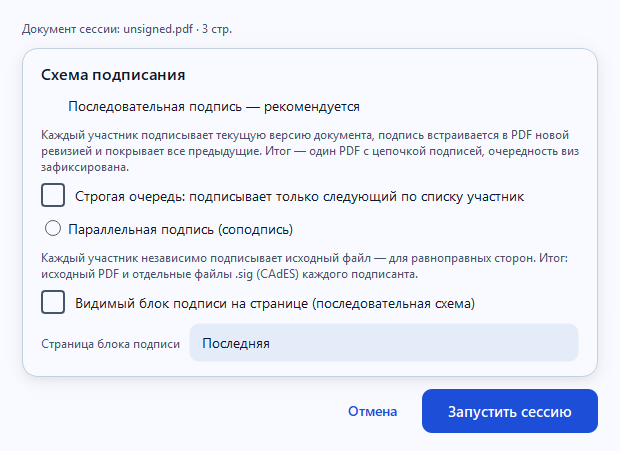
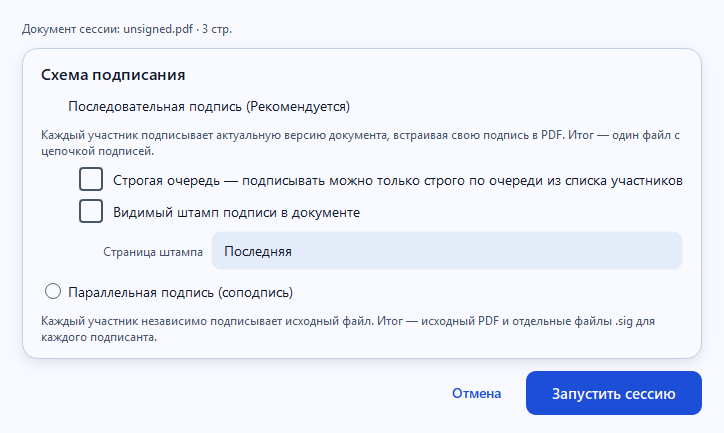
Параметры сетевой сессии: структура схем подписания по макету
- «Последовательная подпись (Рекомендуется)» + описание, вложенные
  «Строгая очередь — …» и «Видимый штамп подписи в документе»
- «Параллельная подпись (соподпись)» + описание из макета
- выбор страницы штампа показывается только при включённом штампе
- перерисован session-setup.png, блюр ПД переприменён
- заметки к релизу 1.1.0 актуализированы

Changed region(s): [[0.0306, 0.1501, 0.9806, 0.9607], [0.0306, 0.06, 0.95, 0.1201], [0.5823, 0.7206, 0.9194, 0.7506]]

diff --git a/pdfsign/network_ui.py b/pdfsign/network_ui.py
@@ -197,39 +197,32 @@ class HostSetupDialog(QDialog):
         card, card_layout = _card("Схема подписания")
         _shadow(card)
 
-        self._sequential = QRadioButton(
-            "Последовательная подпись — рекомендуется"
-        )
+        self._sequential = QRadioButton("Последовательная подпись (Рекомендуется)")
         self._sequential.setChecked(True)
         card_layout.addWidget(self._sequential)
         seq_hint = QLabel(
-            "Каждый участник подписывает текущую версию документа, подпись встраивается в PDF "
-            "новой ревизией и покрывает все предыдущие. Итог — один PDF с цепочкой подписей, "
-            "очередность виз зафиксирована."
+            "Каждый участник подписывает актуальную версию документа, встраивая "
+            "свою подпись в PDF. Итог — один файл с цепочкой подписей."
         )
         seq_hint.setObjectName("Caption")
         seq_hint.setWordWrap(True)
         card_layout.addWidget(seq_hint)
 
-        self._strict = QCheckBox("Строгая очередь: подписывает только следующий по списку участник")
-        card_layout.addWidget(self._strict)
-
-        self._parallel = QRadioButton("Параллельная подпись (соподпись)")
-        card_layout.addWidget(self._parallel)
-        par_hint = QLabel(
-            "Каждый участник независимо подписывает исходный файл — для равноправных сторон. "
-            "Итог: исходный PDF и отдельные файлы .sig (CAdES) каждого подписанта."
+        # sub-options nested under the sequential scheme
+        sub = QWidget()
+        sub_layout = QVBoxLayout(sub)
+        sub_layout.setContentsMargins(38, 0, 0, 0)
+        sub_layout.setSpacing(8)
+        self._strict = QCheckBox(
+            "Строгая очередь — подписывать можно только строго по очереди "
+            "из списка участников"
         )
-        par_hint.setObjectName("Caption")
-        par_hint.setWordWrap(True)
-        card_layout.addWidget(par_hint)
-
-        self._visible = QCheckBox("Видимый блок подписи на странице (последовательная схема)")
-        self._visible.setChecked(False)
-        card_layout.addWidget(self._visible)
-
+        sub_layout.addWidget(self._strict)
+        self._visible = QCheckBox("Видимый штамп подписи в документе")
+        sub_layout.addWidget(self._visible)
         page_row = QHBoxLayout()
-        page_caption = QLabel("Страница блока подписи")
+        page_row.setContentsMargins(24, 0, 0, 0)
+        page_caption = QLabel("Страница штампа")
         page_caption.setObjectName("Caption")
         self._page_combo = QComboBox()
         self._page_combo.addItem("Последняя", -1)
@@ -237,7 +230,18 @@ class HostSetupDialog(QDialog):
             self._page_combo.addItem(f"Страница {index + 1}", index)
         page_row.addWidget(page_caption)
         page_row.addWidget(self._page_combo, 1)
-        card_layout.addLayout(page_row)
+        sub_layout.addLayout(page_row)
+        card_layout.addWidget(sub)
+
+        self._parallel = QRadioButton("Параллельная подпись (соподпись)")
+        card_layout.addWidget(self._parallel)
+        par_hint = QLabel(
+            "Каждый участник независимо подписывает исходный файл. Итог — "
+            "исходный PDF и отдельные файлы .sig для каждого подписанта."
+        )
+        par_hint.setObjectName("Caption")
+        par_hint.setWordWrap(True)
+        card_layout.addWidget(par_hint)
 
         layout.addWidget(card)
 
@@ -255,12 +259,14 @@ class HostSetupDialog(QDialog):
 
         self._sequential.toggled.connect(self._toggle_scheme)
         self._parallel.toggled.connect(self._toggle_scheme)
+        self._visible.toggled.connect(self._toggle_scheme)
+        self._toggle_scheme()
 
     def _toggle_scheme(self) -> None:
         sequential = self._sequential.isChecked()
         self._strict.setEnabled(sequential)
         self._visible.setEnabled(sequential)
-        self._page_combo.setEnabled(sequential)
+        self._page_combo.setEnabled(sequential and self._visible.isChecked())
 
     def _start(self) -> None:
         self.config = network.SessionConfig(

diff --git a/packaging/release-notes-1.1.0.md b/packaging/release-notes-1.1.0.md
@@ -14,6 +14,7 @@ PDF Мультиподпись 1.1.0 — подпись PDF нескольким
 - Кнопка «Скопировать приглашение» — адрес, код и инструкция одним сообщением.
 - Загрузка PDF **кликом по рамке** переноса файла (не только перетаскиванием и кнопкой).
 - Диалог «О программе» без версии ОС.
+- Окно параметров сессии: схема подписания в виде структуры «Последовательная подпись (Рекомендуется)» с вложенными «Строгая очередь» и «Видимый штамп подписи в документе», затем «Параллельная подпись (соподпись)».
 
 Подпись остаётся корректной по `/ByteRange`: в последовательной схеме участник
 получает от организатора точные байты для подписи (двухфазный протокол
@@ -45,9 +46,9 @@ prepare/commit), закрытый ключ не покидает его комп
 ## Контрольные суммы
 
 ```
-SHA256  PDF-Multisign-1.1.0-win64.msi   48e9f43c2f685639b67c5dc67042d41cfbf62934f84ef401cf960af5dc14b5d5
-SHA256  PDF-Multisign.exe               27517574cbcf32f186bddb74d308470a60a06b2a46e28ab1a4a010834fec5ddd
-SHA256  pdf-multisign_1.1.0_amd64.deb   bffaeb27804404ac4052ab8cb60b54f81a1cb8c96d7df26723917181a2a9d2f6
+SHA256  PDF-Multisign-1.1.0-win64.msi       160da18b205c289ace5567c7cf4167b8a919c929854e69a52d4996ac92b4feef
+SHA256  PDF-Multisign.exe                   0bb54f2244b4d6aec7fe44526185bbbb4f1c7118d6305ef65f1692ccb70f71c2
+SHA256  pdf-multisign_1.1.0_amd64.deb       bf0b4625cf4904de9efdc9734d8749de1a3bc6c3afd77c2ee73dc3e861be1708
 ```
 
 Лицензия кода — MIT. Исходники и описание: https://github.com/Tripswarlock/pdf-multisign
